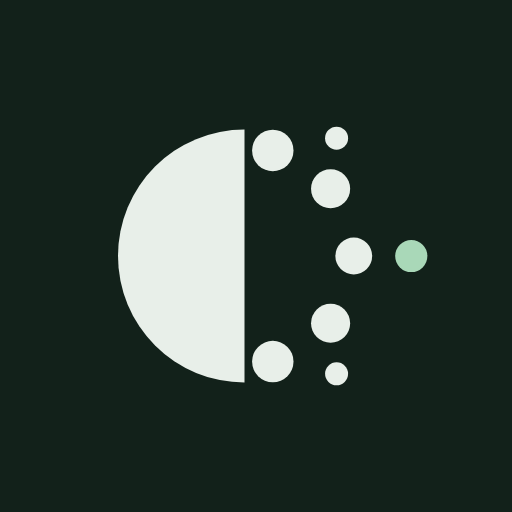
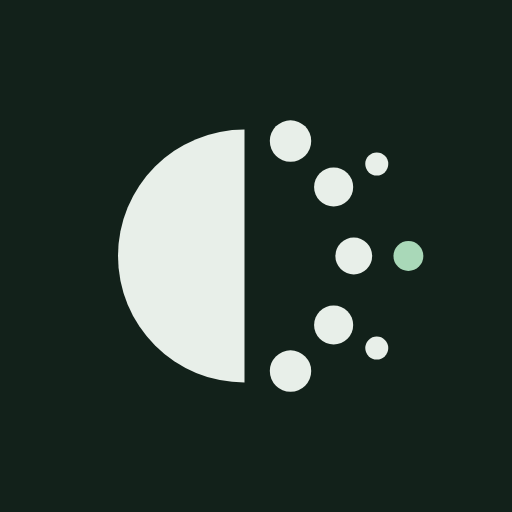
The mark: the exact approved D1 particle positions (#8)
The first cut re-derived the particles from an arc formula and moved
every one of them. These are the coordinates Austin approved, verbatim,
in the component, the SVG, every icon, and the brand kit, with a note
not to re-derive them.

Changed region(s): [[0.4688, 0.5938, 0.7812, 0.7812], [0.4688, 0.2188, 0.7812, 0.4062], [0.75, 0.4688, 0.8438, 0.5312]]

diff --git a/src/components/PoofMark.tsx b/src/components/PoofMark.tsx
@@ -1,7 +1,8 @@
 /**
  * The mark: a disc dispersing into particles, and one green particle that stayed.
  * "The work disappears. The evidence doesn't."
- * Geometry on a 64 grid, identical to public/poof-mark.svg and the app's PoofMark.
+ * Geometry on a 64 grid: the approved D1, verbatim. Identical to public/poof-mark.svg and the app's PoofMark.
+ * Do not re-derive these numbers from a formula; they are the design.
  */
 export default function PoofMark({ size = 24, onInk = false, className = '' }: { size?: number; onInk?: boolean; className?: string }) {
   const c = onInk ? '#E8EFE9' : '#12211A'
@@ -9,14 +10,14 @@ export default function PoofMark({ size = 24, onInk = false, className = '' }: {
   return (
     <svg width={size} height={size} viewBox="0 0 64 64" className={className} aria-hidden="true" focusable="false">
       <path d="M30 10 A22 22 0 0 0 30 54 Z" fill={c} />
-      <circle cx="34.92" cy="13.65" r="3.6" fill={c} />
-      <circle cx="44.97" cy="20.30" r="3.4" fill={c} />
+      <circle cx="38" cy="12" r="3.6" fill={c} />
+      <circle cx="45.5" cy="20" r="3.4" fill={c} />
       <circle cx="49" cy="32" r="3.2" fill={c} />
-      <circle cx="44.97" cy="43.70" r="3.4" fill={c} />
-      <circle cx="34.92" cy="50.35" r="3.6" fill={c} />
-      <circle cx="46.01" cy="11.51" r="2" fill={c} />
-      <circle cx="46.01" cy="52.49" r="2" fill={c} />
-      <circle cx="59" cy="32" r="2.8" fill={a} />
+      <circle cx="45.5" cy="44" r="3.4" fill={c} />
+      <circle cx="38" cy="52" r="3.6" fill={c} />
+      <circle cx="53" cy="16" r="2" fill={c} />
+      <circle cx="53" cy="48" r="2" fill={c} />
+      <circle cx="58.5" cy="32" r="2.6" fill={a} />
     </svg>
   )
 }

diff --git a/BRAND_KIT.md b/BRAND_KIT.md
@@ -215,10 +215,10 @@ A disc dispersing into particles. *The work disappears. The evidence doesn't.* T
 |---|---|
 | **viewBox** | `0 0 64 64` |
 | **Disc** | Half disc, center (30, 32), radius 22, flat edge at x = 30, filled ink `#12211A` (paper `#E8EFE9` when on ink) |
-| **Main particles** | Five, on an arc of radius 19 about the disc center at −75°, −38°, 0°, 38°, 75°; radii 3.6 / 3.4 / 3.2 / 3.4 / 3.6 |
-| **Trailers** | Two, on an arc of radius 26 at ±52°, radius 2.0 |
-| **The survivor** | One particle at (59, 32), radius 2.8, ledger green `#1B5E3F` (light green `#A9D8B8` on ink). It is the only colored element and it never touches another particle |
-| **Spacing rule** | No particle overlaps another; every gap is at least 1 unit. The survivor stands alone past everything |
+| **Main particles** | Five, same fill as the disc: (38, 12) r 3.6 · (45.5, 20) r 3.4 · (49, 32) r 3.2 · (45.5, 44) r 3.4 · (38, 52) r 3.6 |
+| **Trailers** | Two, same fill: (53, 16) r 2 · (53, 48) r 2 |
+| **The survivor** | One particle at (58.5, 32), radius 2.6, ledger green `#1B5E3F` (light green `#A9D8B8` on ink). It is the only colored element and it never touches another particle |
+| **Spacing rule** | These coordinates are the design, approved 2026-09-17 as "D1". **Do not re-derive them from an arc formula**; a re-derivation shipped once and was reverted the same day. Minimum gap between any two particles is 3.1 units |
 | **Mono** | When one color is available, the survivor is ink like the rest |
 | **App icon** | The mark on an ink tile, inset 6 units. The maskable icon is inset 9 units |
 | **Favicon** | The mark alone on transparent; 16 and 32 px PNGs, and `favicon.ico` carrying both |
